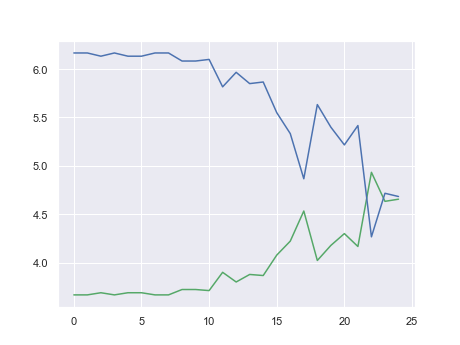
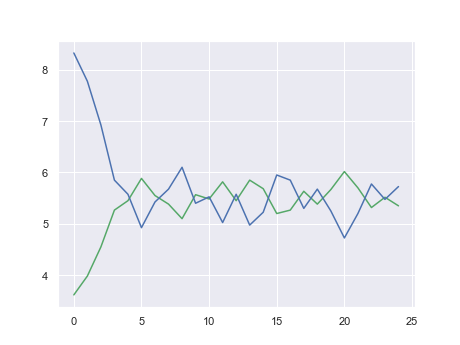
playing with mean changing, still need to only update for those who get interviewed

diff --git a/distro_neil.py b/distro_neil.py
@@ -191,10 +191,12 @@ def main():
     VAR_B = 1
     QUERY_LEN = 10
     NUM_QUERIES = 10
-    NUM_ITER = 10
+    NUM_ITER = 25
+    # NUM_ITERS = [10, 25, 100]
     METRIC = 'avg_position'
     DIST = 'normal'
 
+    # for NUM_ITER in NUM_ITERS:
     metric_a, mean_a = np.empty(NUM_ITER), np.empty(NUM_ITER)
     metric_b, mean_b = np.empty(NUM_ITER), np.empty(NUM_ITER)
 
@@ -209,16 +211,23 @@ def main():
 
             # rank subjects according to chosen policy, compute metric
             # rank_a, rank_b = rank_top_k(arr_a, arr_b, 5, PROB_A)
-            rank_a, rank_b = rank_stoch(arr_a, arr_b)
+            rank_a, rank_b = rank_max_util(arr_a, arr_b)
+            # rank_a, rank_b = rank_stoch(arr_a, arr_b)
             a_metrics[j], b_metrics[j] = compute_metric(rank_a, rank_b, METRIC)
 
         # take the mean of the metrics over the queries at each step
         metric_a[i], metric_b[i] = np.mean(a_metrics), np.mean(b_metrics)
 
         # update population distributions for next iteration
+        # keeping the sum the same
         mean_a[i], mean_b[i] = MEAN_A, MEAN_B
-        MEAN_A += update_mean(np.mean(arr_a))
-        MEAN_B += update_mean(np.mean(arr_b))
+        if abs(MEAN_B - MEAN_A) > 0.02:
+            if MEAN_B < MEAN_A:
+                MEAN_B += update_mean(np.mean(arr_b))
+                MEAN_A -= update_mean(np.mean(arr_b))
+            if MEAN_A < MEAN_B:
+                MEAN_A += update_mean(np.mean(arr_a))
+                MEAN_B -= update_mean(np.mean(arr_a))
 
     # plot change in metric over time
     plt.plot(np.arange(NUM_ITER), metric_a, color='C2', label=f'Group A {METRIC}')
